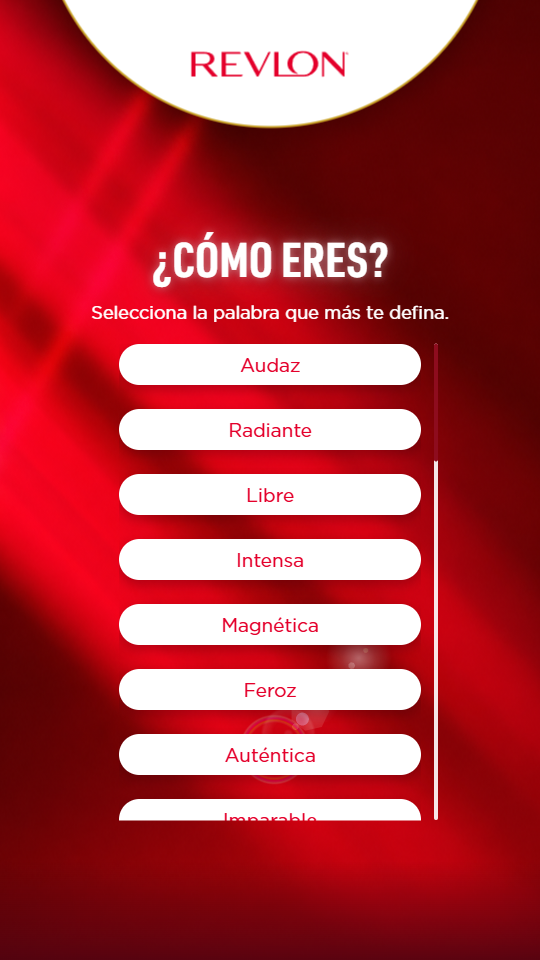
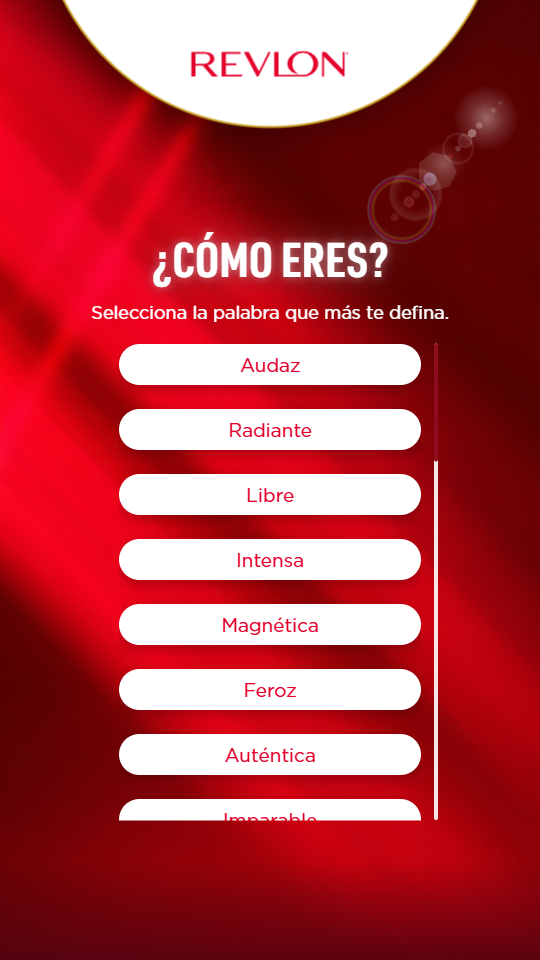
Marco dorado de la pantalla 05: degradado, halo y aire interior
El marco del Figma son dos rectángulos superpuestos (371:368 y 371:370) en
354,550 · 376×639, radio 20, trazo de 3 px con el estilo de color "Gold".
Idénticos salvo que el segundo lleva blur 4.7 px: no es un doble filo, es un
halo sobre el trazo nítido.

Tres cosas que estaban mal:

- El oro era un hex plano (#C9A227). "Gold" es un degradado metálico de siete
  stops, con un salto a bronce (#94641E) en el 4 %.
- No había aire: el borde se pintaba sobre la propia imagen. En el Figma el
  marco (376×639) y la foto (333×592, nodo 361:19635) son piezas separadas, de
  ahí los ~22 px de margen. Ahora la foto va centrada dentro del marco.
- El radio de la foto era 18; en el Figma es 12, con sombra
  14px 15px 25.1px rgba(0,0,0,.25).

Dirección del degradado: 0deg (de abajo arriba), no diagonal. Verificado
muestreando el render del propio Figma — los bordes superior e inferior salen
uniformes a lo ancho, así que no hay componente horizontal, y los stops caen
donde deben medidos desde la base (4 % → rgb(150,104,36) contra #94641E
(148,100,30); 83 % → rgb(254,240,215) contra #FFF2DB). Con el 135deg que puse
primero, la banda de bronce se iba a una esquina.

Como el marco no tiene relleno, el degradado se recorta a un anillo con la
técnica de doble máscara (content-box excluida del elemento entero), que deja
ver el fondo por el centro.

diff --git a/src/screens/ResultScreen.tsx b/src/screens/ResultScreen.tsx
@@ -51,7 +51,7 @@ export function ResultScreen() {
         src={IMAGES.product}
         label="producto"
         fit="contain"
-        style={{ left: L.product.x, top: L.product.y, width: L.product.size, height: L.product.size }}
+        style={{ left: L.product.x, top: L.product.y, transform: `rotate(${L.product.rotation ?? 0}deg)`, width: L.product.size, height: L.product.size }}
       />
 
       <h2
@@ -82,22 +82,7 @@ export function ResultScreen() {
         Escanea el siguiente código QR para descargar tu foto.
       </p>
 
-      {/* Pieza compuesta, con el filo dorado de la maqueta. */}
-      <div
-        className="absolute overflow-hidden"
-        style={{
-          left: L.preview.x,
-          top: L.preview.y,
-          width: L.preview.width,
-          height: L.preview.height,
-          borderRadius: L.preview.radius,
-          border: `${L.preview.border}px solid ${BRAND.colors.gold}`,
-          boxShadow: '0 0 60px rgba(255,180,190,0.35), 0 24px 60px rgba(0,0,0,0.4)',
-          background: 'rgba(0,0,0,0.2)',
-        }}
-      >
-        {piece && <img src={piece.objectUrl} alt={`Pieza ${word?.word ?? ''}`} className="h-full w-full object-cover" />}
-      </div>
+      <PiecePreview piece={piece} word={word?.word} />
 
       <div
         className="absolute flex items-center justify-center bg-white"
@@ -119,6 +104,81 @@ export function ResultScreen() {
 
       {DEBUG.downloadPiece && piece && <DownloadPieceBar piece={piece} wordId={word?.id ?? 'pieza'} />}
     </ScreenLayer>
+  )
+}
+
+/**
+ * Pieza compuesta dentro de su marco dorado.
+ *
+ * El marco y la foto son elementos SEPARADOS, como en el Figma: el marco mide
+ * 376×639 y la foto 333×592 centrada dentro, lo que deja el aire de ~22 px que
+ * el diseño pide. Antes el borde se pintaba sobre la propia imagen, así que no
+ * había ningún hueco.
+ *
+ * El trazo va con el degradado "Gold", no con un oro plano. Como el marco no
+ * tiene relleno, no basta con poner el degradado de fondo: hay que recortarlo
+ * a un anillo. Eso lo hace la máscara doble de abajo — una capa cubre el área
+ * interior y otra el elemento entero, y al excluir una de otra solo sobrevive
+ * el borde. Es la forma estándar de tener un borde con degradado dejando ver
+ * el fondo a través del centro.
+ */
+function PiecePreview({ piece, word }: { piece: ComposedPiece | null; word?: string }) {
+  const { frame, photo } = L.preview
+
+  // Recorta el relleno y deja solo el anillo del grosor del trazo.
+  const soloElAnillo = {
+    padding: frame.border,
+    background: BRAND.gradients.gold,
+    WebkitMask: 'linear-gradient(#000 0 0) content-box, linear-gradient(#000 0 0)',
+    WebkitMaskComposite: 'xor',
+    mask: 'linear-gradient(#000 0 0) content-box, linear-gradient(#000 0 0)',
+    maskComposite: 'exclude',
+  } as const
+
+  return (
+    <>
+      {/* Trazo nítido. */}
+      <div
+        className="pointer-events-none absolute"
+        style={{
+          left: frame.x,
+          top: frame.y,
+          width: frame.width,
+          height: frame.height,
+          borderRadius: frame.radius,
+          ...soloElAnillo,
+        }}
+      />
+      {/* La misma pieza difuminada encima: el halo del Figma (Rectangle 3). */}
+      <div
+        className="pointer-events-none absolute"
+        style={{
+          left: frame.x,
+          top: frame.y,
+          width: frame.width,
+          height: frame.height,
+          borderRadius: frame.radius,
+          filter: `blur(${frame.glowBlur}px)`,
+          ...soloElAnillo,
+        }}
+      />
+
+      {/* La foto, centrada en el marco. */}
+      <div
+        className="absolute overflow-hidden"
+        style={{
+          left: frame.x + (frame.width - photo.width) / 2,
+          top: frame.y + (frame.height - photo.height) / 2,
+          width: photo.width,
+          height: photo.height,
+          borderRadius: photo.radius,
+          boxShadow: photo.shadow,
+          background: 'rgba(0,0,0,0.2)',
+        }}
+      >
+        {piece && <img src={piece.objectUrl} alt={`Pieza ${word ?? ''}`} className="h-full w-full object-cover" />}
+      </div>
+    </>
   )
 }
 

diff --git a/src/config.ts b/src/config.ts
@@ -53,6 +53,28 @@ export const BRAND = {
     muted: '#8A8A90',
   },
   /**
+   * Degradados de marca. El oro del Figma NO es un color plano: es un estilo
+   * de color llamado "Gold", un degradado metálico. Pintarlo con un hex único
+   * mata el efecto — la gracia está en el salto al bronce oscuro del 4 % y en
+   * los tres tonos claros del tramo final.
+   */
+  gradients: {
+    /**
+     * Estilo "Gold" del Figma, stop a stop.
+     *
+     * `0deg` = de ABAJO hacia arriba, y los porcentajes se miden desde la base.
+     * No es un capricho: verificado muestreando el render del propio Figma, los
+     * bordes superior e inferior son uniformes a lo ancho (o sea, sin
+     * componente horizontal) y el bronce del 4 % cae en la base. Con un ángulo
+     * diagonal esa banda oscura se iría a una esquina y el filo cambia por
+     * completo.
+     */
+    gold:
+      'linear-gradient(0deg, ' +
+      '#FFF0DA 1%, #94641E 4%, #FFF2DB 83%, ' +
+      '#EAC885 94%, #FBF5D1 98%, #BD9A4B 100%, #ECD8A3 100%)',
+  },
+  /**
    * Tipografías servidas desde /public/fonts. Se cargan por JS con la API
    * `FontFace` (ver `FONT_FACES` más abajo y `src/lib/assets.ts`), no por
    * `@font-face` en CSS: un `@font-face` normal no se descarga hasta que un
@@ -915,7 +937,7 @@ export const LAYOUT = {
       { asset: 'b', x: 620, y: 986, width: 548, height: 912 },
     ] as readonly BeamConfig[],
 
-    flares: [{ x: 650, y: 40, size: 460, intensity: 2.6 }] as readonly FlareConfig[],
+    flares: [{ x: 680, y: -10, size: 460, intensity: 2.6 }] as readonly FlareConfig[],
   },
 
   /* 02 · SELECCIÓN DE PALABRA */
@@ -941,7 +963,7 @@ export const LAYOUT = {
       { asset: 'a', x: -211, y: -15, width: 757, height: 1261 },
       { asset: 'a', x: -1, y: -585, width: 757, height: 1261 },
     ] as readonly BeamConfig[],
-    flares: [{ x: 420, y: 1180, size: 440, intensity: 2.0 }] as readonly FlareConfig[],
+    flares: [{ x: 675, y: 100, size: 440, intensity: 2.0 }] as readonly FlareConfig[],
   },
 
   /* 03 · TOMA DE FOTO */
@@ -965,11 +987,30 @@ export const LAYOUT = {
   result: {
     title: { x: 168, y: 335, width: 745, height: 94, fontSize: 96 },
     subtitle: { x: 208, y: 448, width: 665, height: 70, fontSize: 36, lineHeight: 1.32 },
-    preview: { x: 374, y: 571, width: 333, height: 592, radius: 18, border: 4 },
+    /**
+     * Marco dorado y foto dentro. Son piezas SEPARADAS, no un borde sobre la
+     * imagen: en el Figma el marco es un rectángulo mayor (376×639) y la foto
+     * va dentro (333×592), de ahí el aire de ~22 px alrededor.
+     *
+     * El marco son dos rectángulos superpuestos (371:368 y 371:370), idénticos
+     * salvo que el segundo lleva blur: no es un doble filo, es un halo — una
+     * copia difuminada del mismo trazo encima del nítido. Sin ella el oro se ve
+     * plano y recortado.
+     */
+    preview: {
+      frame: { x: 354, y: 550, width: 376, height: 639, radius: 20, border: 3, glowBlur: 4.7 },
+      /** Nodo "7 1" del Figma: centrado en el marco, con esquina más cerrada. */
+      photo: {
+        width: 333,
+        height: 592,
+        radius: 12,
+        shadow: '14px 15px 25.1px 0px rgba(0, 0, 0, 0.25)',
+      },
+    },
     qr: { x: 417, y: 1249, width: 247, height: 273, radius: 24, padding: 20 },
-    product: { x: 193, y: 1517, size: 1321 },
+    product: { x: 344, y: 1010, rotation: -34.8, size: 1321 },
     buttons: { x: 318, width: 444, top: 1583, height: 106, gap: 26, radius: 16, fontSize: 40 },
     beams: [] as readonly BeamConfig[],
-    flares: [{ x: -120, y: 940, size: 440, intensity: 1.8 }] as readonly FlareConfig[],
+    flares: [{ x: 30, y: 1050, size: 440, intensity: 1.8 }] as readonly FlareConfig[],
   },
 } as const
